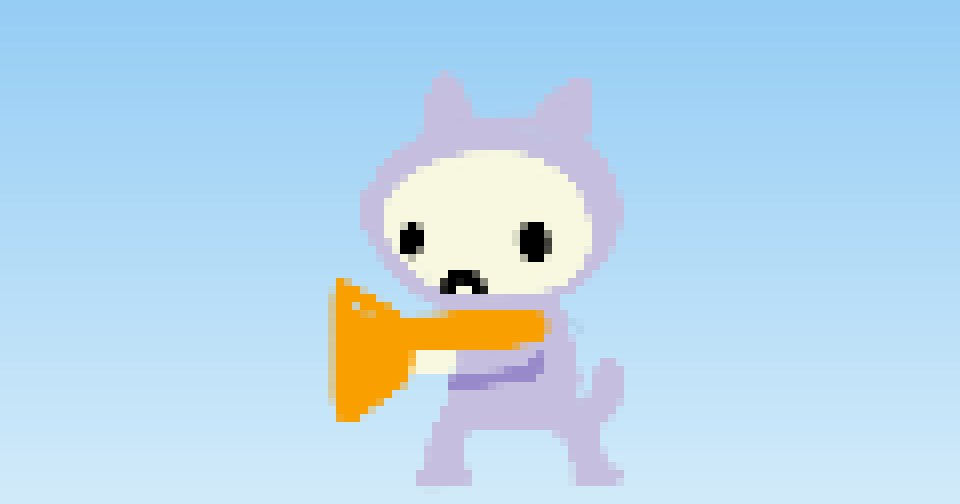
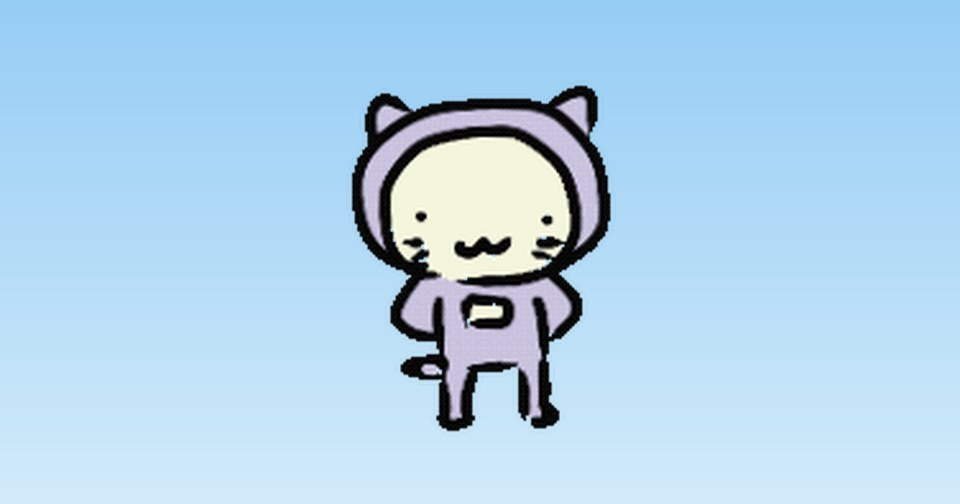
たいじろう: 提供されたアニメGIFに差し替え（紹介ページ・一覧サムネイル）
Claude-Session: https://claude.ai/code/session_01GZCPfjFnHbPtcq5HiQyMtL

Changed region(s): [[0.3438, 0.1488, 0.6562, 0.9821]]

diff --git a/portfolio/charip/taijiro/index.html b/portfolio/charip/taijiro/index.html
@@ -16,9 +16,9 @@
 <meta property="og:image:alt" content="たいじろう">
 <meta property="og:locale" content="ja_JP">
 <meta name="twitter:card" content="summary_large_image">
-<link rel="stylesheet" href="../../style.css?v=9">
+<link rel="stylesheet" href="../../style.css?v=10">
 <style>
-/* たいじろうページだけの見た目：空色の背景に、ドット絵のたいじろう */
+/* たいじろうページだけの見た目：空色の背景に、アニメーションするたいじろう */
 .ti-hero {
   display: grid; grid-template-columns: 1fr 1fr; align-items: center; gap: 24px;
   padding: 28px; border-radius: var(--radius); color: #1d3a57;
@@ -28,13 +28,12 @@
 .ti-hero h1 { font-size: clamp(34px, 8vw, 52px); letter-spacing: .08em; margin: 8px 0 4px; }
 .ti-hero p { margin: 0 0 6px; }
 .ti-hero .by { font-size: 13px; opacity: .8; }
-.ti-cat { justify-self: center; width: min(240px, 60vw); aspect-ratio: 2 / 3; }
-.ti-cat img { width: 100%; height: 100%; image-rendering: pixelated; animation: ti-bob 1.6s ease-in-out infinite; }
-@keyframes ti-bob { 50% { transform: translateY(-8px); } }
-@media (prefers-reduced-motion: reduce) { .ti-cat img { animation: none; } }
+.ti-cat { justify-self: center; width: min(300px, 60vw); }
+.ti-cat img { width: 100%; height: auto; }
 @media (max-width: 600px) {
   .ti-hero { grid-template-columns: 1fr; padding: 20px; text-align: center; }
-  .ti-cat { order: -1; width: 150px; }
+  .ti-cat { order: -1; width: 180px; }
+  .ti-hero .ip-links { justify-content: center; }
 }
 .ti-about { margin-top: 28px; }
 .ti-about h2, .ti-stickers h2 { font-size: 20px; margin: 0 0 8px; }
@@ -67,12 +66,12 @@
     <div>
       <span class="kind">オリジナルキャラクター</span>
       <h1 data-ip-name>たいじろう</h1>
-      <p>ラッパを持った、ちょっとおとぼけなねこ。</p>
+      <p>フードをかぶった、ちょっとおとぼけなねこ。</p>
       <p class="by">提供: <span data-ip-by>ヨシダスタジオ</span></p>
       <p class="ip-source" data-ip-source hidden><a href="#"></a></p>
       <div class="ip-links" data-ip-links></div>
     </div>
-    <div class="ti-cat"><img src="../../img/charip/taijiro-sprite.png" width="40" height="60" alt="たいじろう"></div>
+    <div class="ti-cat"><img src="../../img/charip/taijiro.gif" width="180" height="180" alt="たいじろう"></div>
   </section>
 
   <section class="ti-about">

diff --git a/portfolio/style.css b/portfolio/style.css
@@ -290,8 +290,8 @@ div.card { opacity: .6; }
   grid-template-columns: repeat(auto-fill, minmax(300px, 1fr));
 }
 @media (max-width: 480px) { .ips { grid-template-columns: 1fr; } }
-.ip-thumb { aspect-ratio: 1.905; overflow: hidden; background: var(--line); }
-.ip-thumb img { width: 100%; height: 100%; object-fit: cover; }
+.ip-thumb { aspect-ratio: 1.905; overflow: hidden; background: linear-gradient(180deg, #96cdf5, #d2e9fa); }
+.ip-thumb img { width: 100%; height: 100%; object-fit: contain; }
 .ip-by { font-size: 12px; color: var(--muted); }
 .ip-tag { padding: 1px 9px; border-radius: 999px; background: var(--line); color: var(--text); font-size: 12px; }
 

diff --git a/portfolio/charip/index.html b/portfolio/charip/index.html
@@ -16,7 +16,7 @@
 <meta property="og:image:alt" content="ヨシダスタジオ YOSHIDA STUDIO">
 <meta property="og:locale" content="ja_JP">
 <meta name="twitter:card" content="summary_large_image">
-<link rel="stylesheet" href="../style.css?v=9">
+<link rel="stylesheet" href="../style.css?v=10">
 </head>
 <body>
 <header class="site-header">

diff --git a/portfolio/games/index.html b/portfolio/games/index.html
@@ -16,7 +16,7 @@
 <meta property="og:image:alt" content="ヨシダスタジオ YOSHIDA STUDIO">
 <meta property="og:locale" content="ja_JP">
 <meta name="twitter:card" content="summary_large_image">
-<link rel="stylesheet" href="../style.css?v=9">
+<link rel="stylesheet" href="../style.css?v=10">
 </head>
 <body>
 <header class="site-header">

diff --git a/portfolio/line/index.html b/portfolio/line/index.html
@@ -16,7 +16,7 @@
 <meta property="og:image:alt" content="ヨシダスタジオ YOSHIDA STUDIO">
 <meta property="og:locale" content="ja_JP">
 <meta name="twitter:card" content="summary_large_image">
-<link rel="stylesheet" href="../style.css?v=9">
+<link rel="stylesheet" href="../style.css?v=10">
 </head>
 <body>
 <header class="site-header">

diff --git a/portfolio/index.html b/portfolio/index.html
@@ -16,7 +16,7 @@
 <meta property="og:image:alt" content="ヨシダスタジオ YOSHIDA STUDIO">
 <meta property="og:locale" content="ja_JP">
 <meta name="twitter:card" content="summary_large_image">
-<link rel="stylesheet" href="style.css?v=9">
+<link rel="stylesheet" href="style.css?v=10">
 </head>
 <body>
 <header class="site-header">

diff --git a/CLAUDE.md b/CLAUDE.md
@@ -60,7 +60,7 @@ GitHub Pages で公開しているリポジトリ（公開元は `main`）。
   - **載せる IP は `portfolio/charip/charip.json` に書いたものだけ**（ゲームの `games.json` と同じ考え方。公開日の新しい順）。追加・公開・公開停止は Claude Code のエージェントに頼む（追加＝`items` に1件足して紹介ページを作る、停止＝消す）
   - 1件の項目: `id`、`name`、`kind`（`original`＝自発 / `opensource`＝オープンソース。一覧は2つの見出しに分かれる）、`creator.name`（提供元者。一覧と詳細に出す）、`description`、`path`（紹介ページ。`charip/` からの相対パス `taijiro/`）、`image`（一覧のサムネイル。960×504。`../img/charip/…`）、`stickers`（`{"q": "絞り込みの文字"}`。`"type": "emoji"` で絵文字タブ）、`games`（`games.json` の `id` の配列。そこに載っているものだけボタンが出る）、`published`。`opensource` は `source`（`{"name": "…", "url": "https://…"}`。元ページ。例: あいつ → https://yosooi.jp/aitsu/）も書く
   - 紹介ページは IP ごとに `charip/<id>/index.html`。**名前・提供元者・スタンプ／ゲームへのボタン・元ページへのリンク・最新スタンプは共通部品 `charip/ip.js`**（`<body data-ip="id">` と `data-ip-name` `data-ip-by` `data-ip-source` `data-ip-links` `data-ip-stickers` の目印を置くと `charip.json` から埋める。使い方は JS 冒頭）。**雰囲気・配置・デザインは IP ごとにエージェントと相談しながら作る**（そのページの `<style>` に書く。共通の部品は `style.css` の `.ip-*`）。スタンプのボタンは `line/?q=…` を開く
-  - 今あるのは「たいじろう」（`charip/taijiro/`。ゲームのドット絵の猫を使った空色のページ。`games` に `taijiros-yan` を指定済みだが、`games.json` に載せるまでボタンは出ない）。予定: 自発は「ウーパくん」「ちびうぱ」、オープンソースは「あいつ」（提供元の作者のページへリンク）
+  - 今あるのは「たいじろう」（`charip/taijiro/`。ユーザー提供のアニメGIF（`img/charip/taijiro.gif`、透過）を使った空色のページ。`games` に `taijiros-yan` を指定済みだが、`games.json` に載せるまでボタンは出ない）。予定: 自発は「ウーパくん」「ちびうぱ」、オープンソースは「あいつ」（提供元の作者のページへリンク）
 - `portfolio/games/index.html` … ブラウザゲームの一覧。**載せるゲームは `portfolio/games/games.json` に書いたものだけ**（`games/` のフォルダを巡回しない。制作中のゲームは書かなければ載らない）。公開日の新しい順（同じ日は書いた順）
   - スマホ（iPhone / Android）で開いたときだけ「ホーム画面に追加」の案内を出す（`#a2hs`。機種は UA で見分ける。ホーム画面から開いているときと PC では出さない）。ウェブページからは追加の画面を出せない（iOS には仕組みがない。Android の `beforeinstallprompt` は、そのゲーム自身のページでしか使えない）ので、案内だけ
   - **ゲームを公開するとき**: `games.json` の `items` に1件足す。取り下げるときは消す。`games/` のフォルダの名前・中身は変えない
